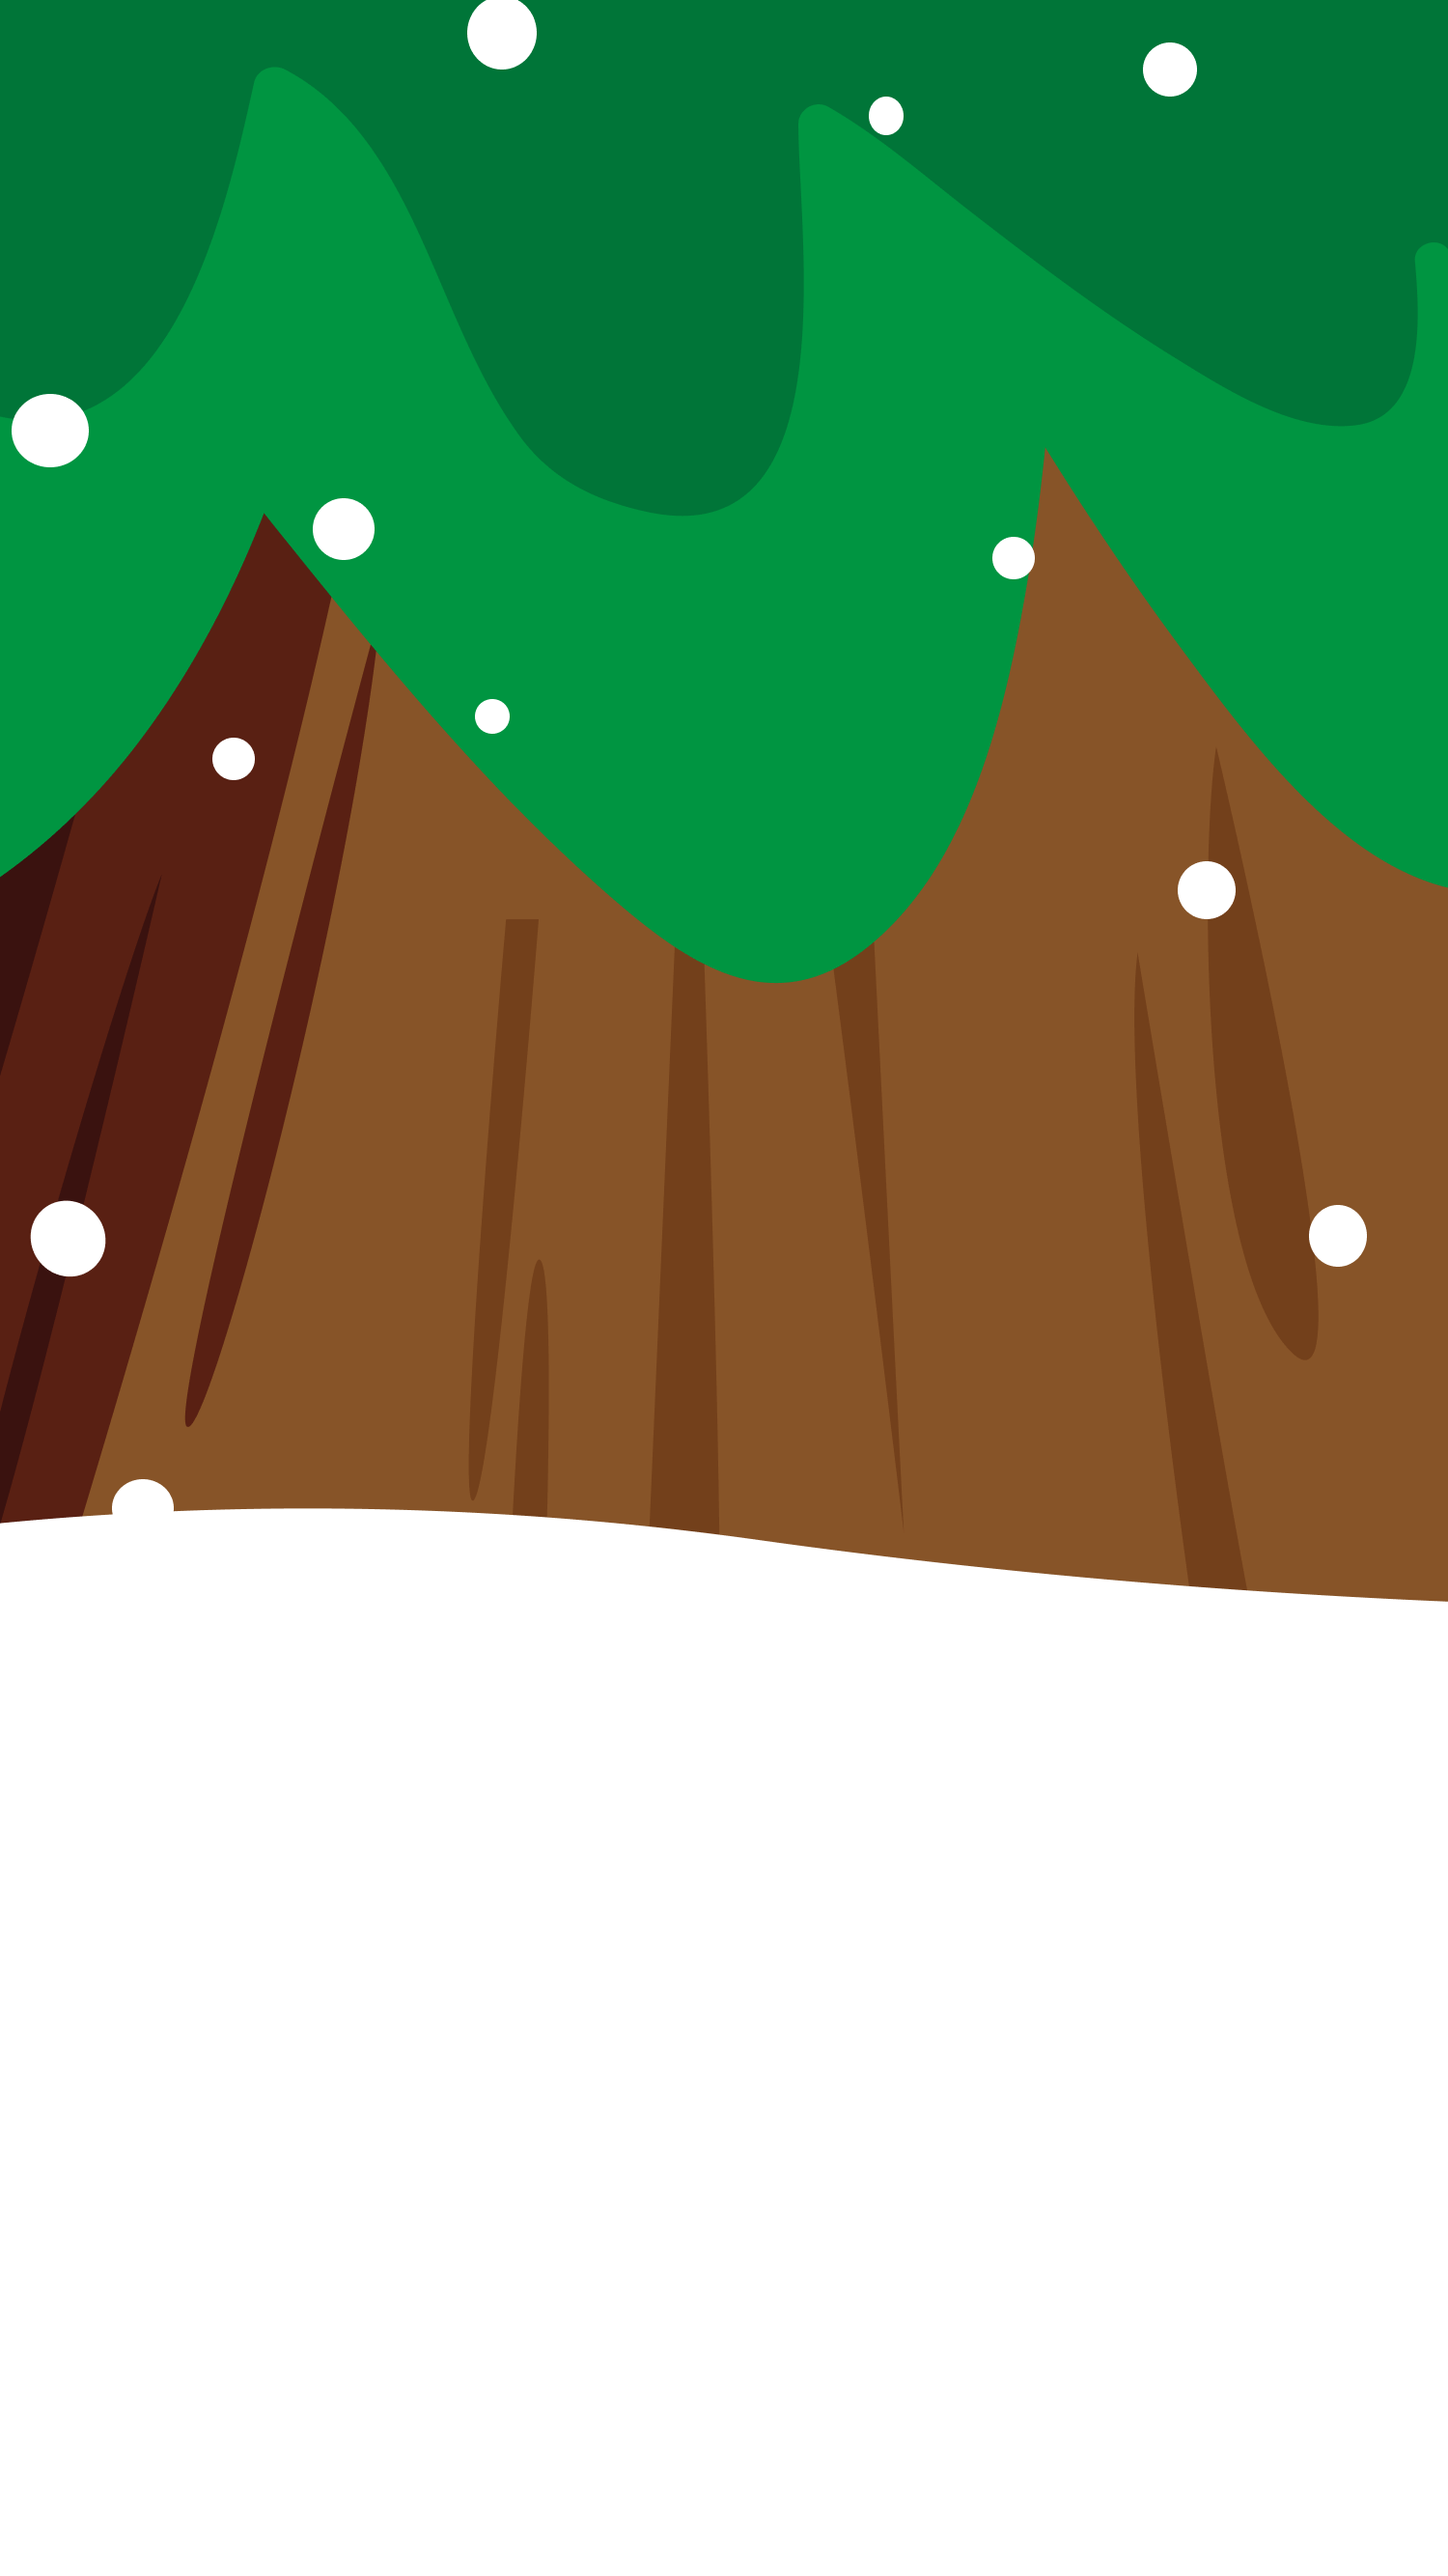
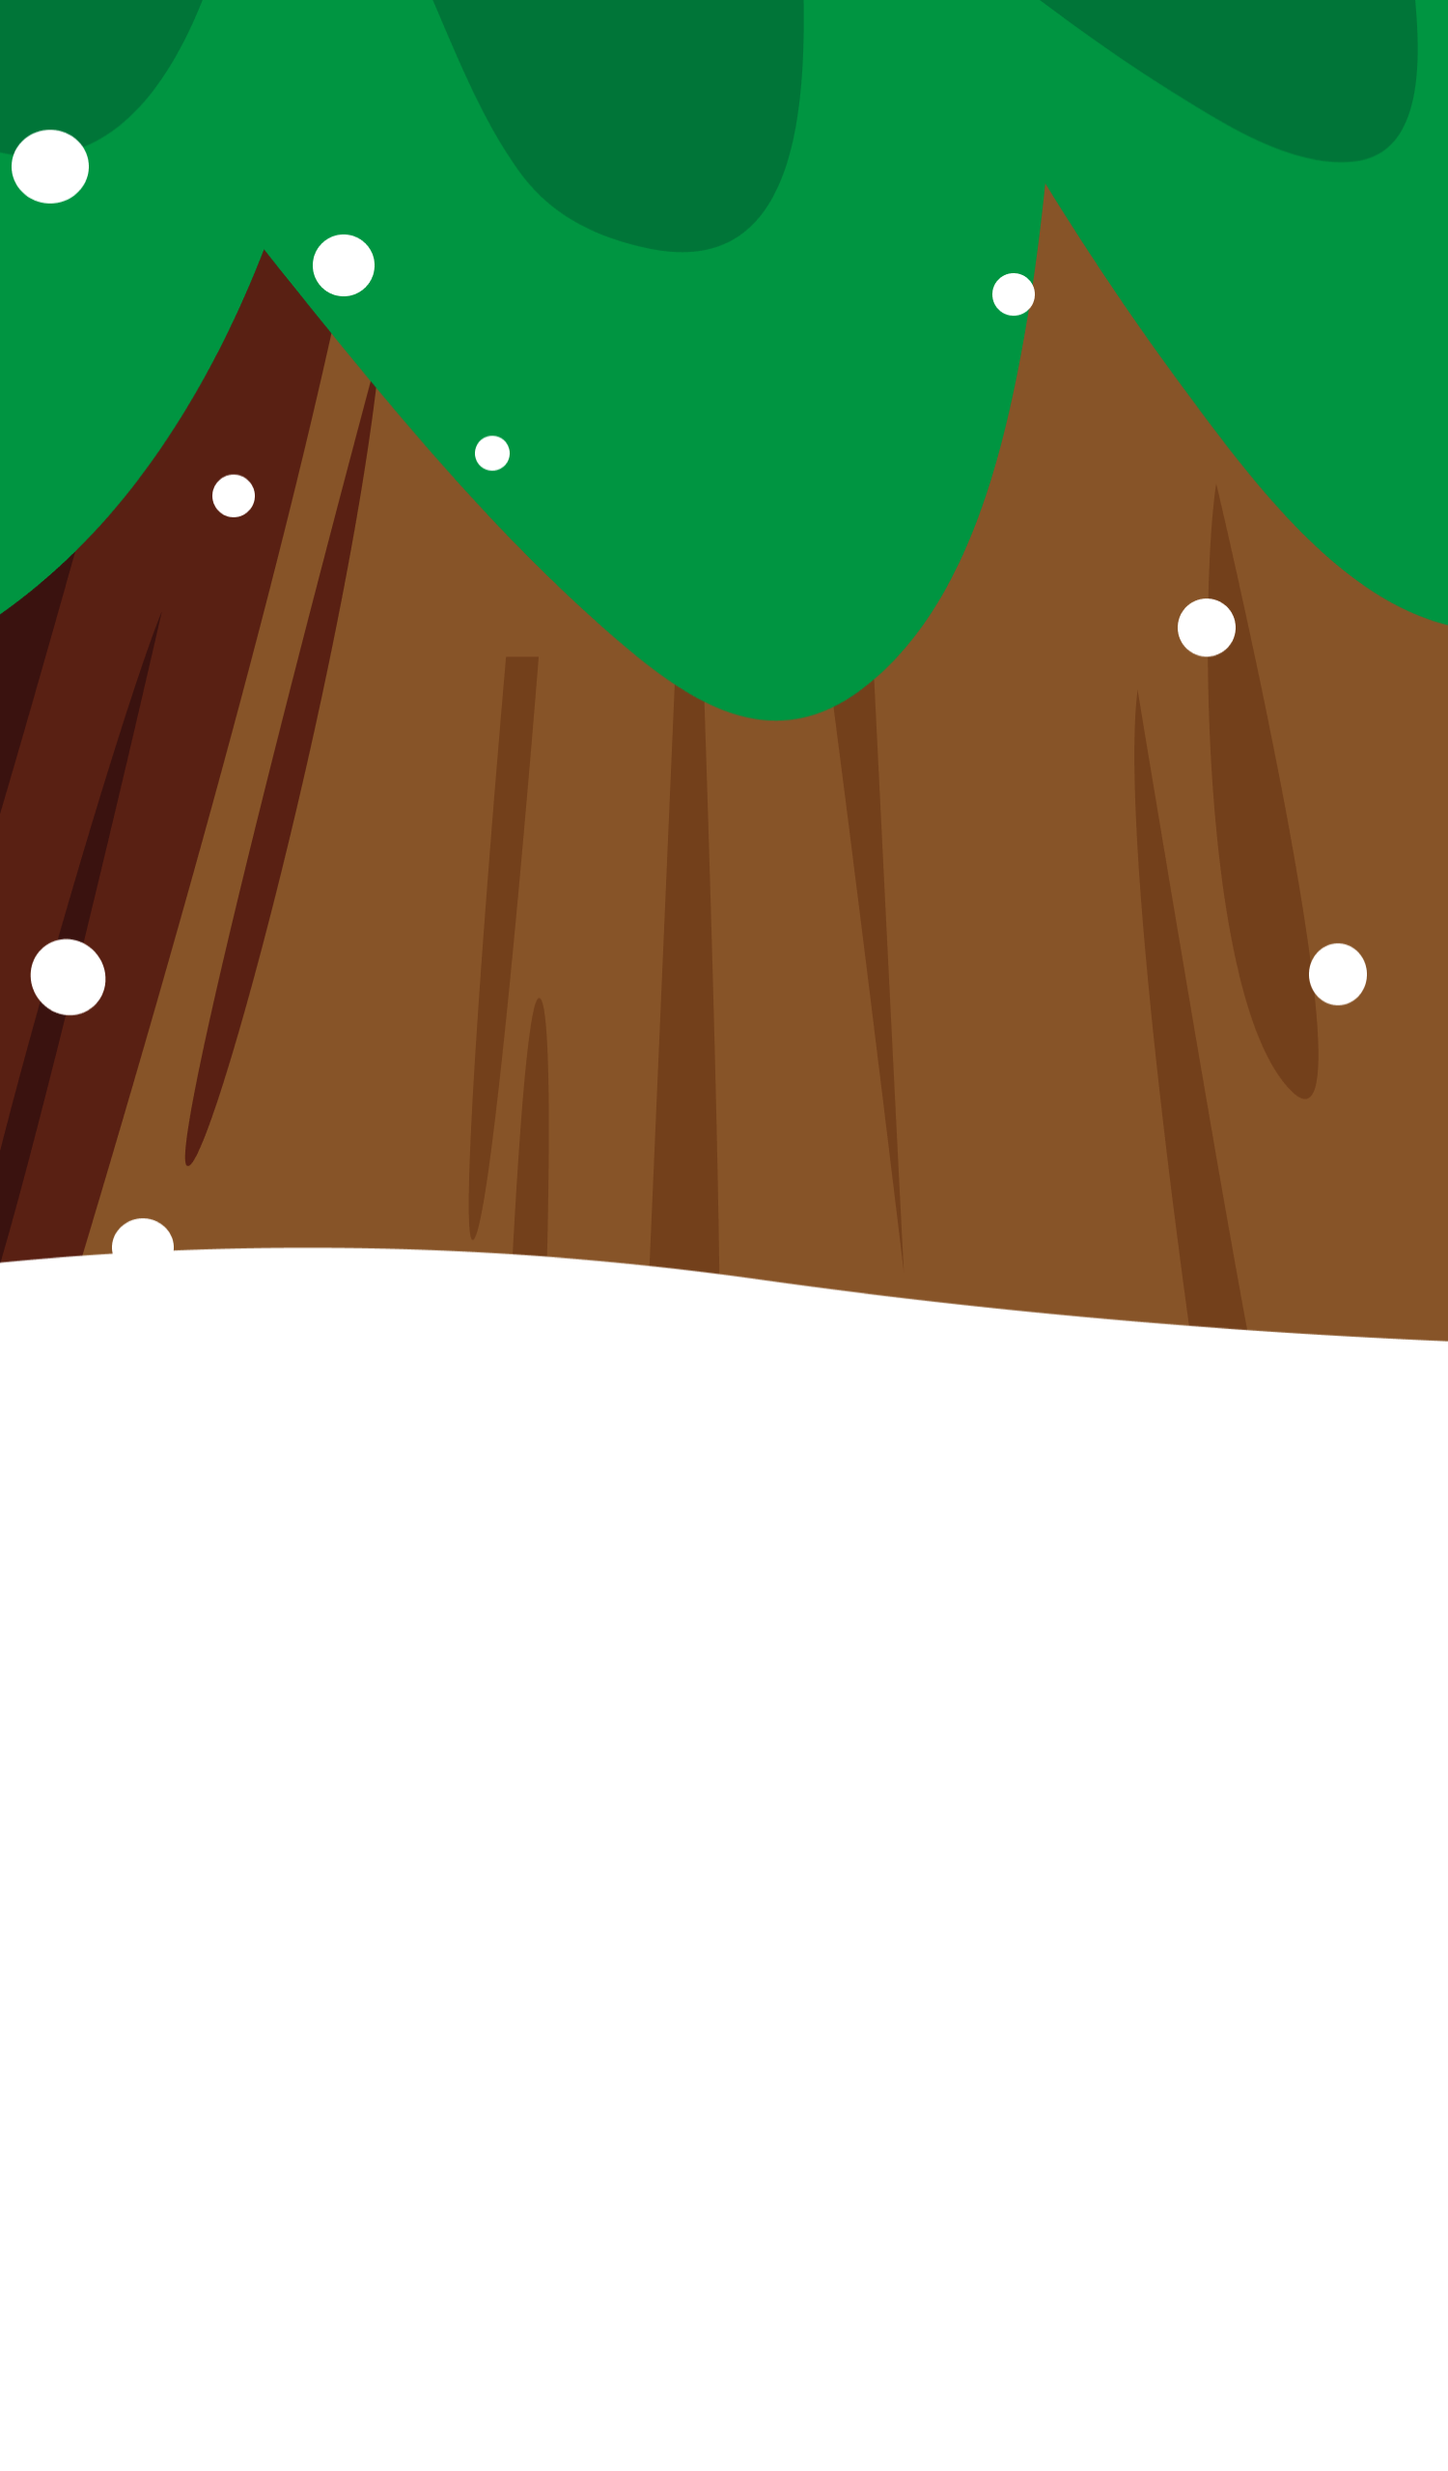
Update

diff --git a/style.css b/style.css
@@ -284,7 +284,7 @@ p.instruction{
 
 .show{
     width: 100%;
-    margin-bottom: -70px;
+    margin-bottom: -110px;
 }
 .additional{
     position: absolute;
